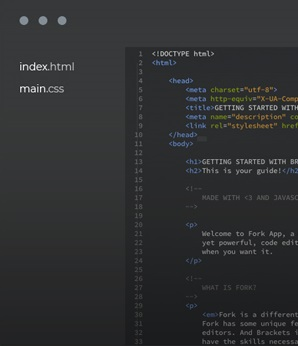
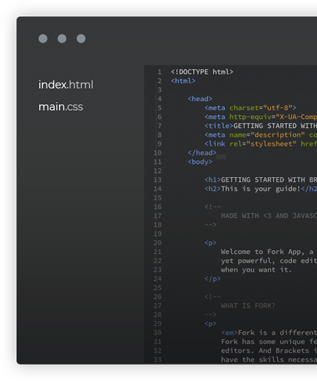
modify: fixed some mistakes in CSS

diff --git a/dist/styles.min.css b/dist/styles.min.css
@@ -1,1 +1,1 @@
-li{list-style-type:none}a{color:#fff;text-decoration:none}h1,h2,p,ul{padding:0;margin:0}body{margin:0}.fork-wrapper{background-image:url(/dist/img/forkio-background-320.jpg);display:flex;flex-direction:column;color:#fff;text-align:center}.fork-title{font-family:Montserrat,Arial,sans-serif;font-size:28px;line-height:42px;font-weight:700;margin-top:2px;margin-bottom:32px}@media (min-width:481px){.fork-title{font-size:42px;line-height:44px;font-weight:700;margin-bottom:39px}}@media (min-width:993px){.fork-title{font-size:48px;line-height:50px;font-weight:700;margin-top:83px;margin-bottom:112px}}.fork-list{display:flex;flex-direction:column;row-gap:18px}@media (min-width:481px){.fork-list{flex-direction:row;margin-left:121px;margin-right:108px;flex-wrap:wrap;-moz-column-gap:25px;column-gap:25px;row-gap:0}}@media (min-width:993px){.fork-list{-moz-column-gap:15px;column-gap:15px;margin:0 auto}}.fork__list-item{background:rgba(255,255,255,.11);height:457px;width:257px;margin:0 auto}.fork__list-item:nth-child(4){margin-bottom:12px}@media (min-width:481px){.fork__list-item{margin-bottom:71px;margin-right:0;margin-left:0}}.fork__list__item-active{background:rgba(70,48,72,.84);height:560px;width:299px;margin:0 auto}@media (min-width:481px){.fork__list__item-active{margin:-41px 0 94px -42px}}@media (min-width:993px){.fork__list__item-active{margin:-51px 0 77px 0}}.fork__item-productName{font-family:Montserrat,Arial,sans-serif;font-size:24px;line-height:24px;font-weight:400;text-transform:uppercase;padding-top:36px;padding-bottom:36px;margin:0;background:rgba(255,255,255,.06)}.fork__item__productName-active{font-family:Montserrat,Arial,sans-serif;font-size:24px;line-height:24px;font-weight:400;text-transform:uppercase;padding-top:43px;padding-bottom:43px;margin:0;background:rgba(0,0,0,.11)}.fork__item-price{font-family:Montserrat,Arial,sans-serif;margin-top:30px;margin-bottom:20px;font-size:60px;font-weight:700;line-height:62px}.fork__item-price::before{font-size:60px;font-weight:400;line-height:62px;content:"$"}.fork__item__price-active{font-family:Montserrat,Arial,sans-serif;margin-top:14px;margin-bottom:16px;font-size:82px;font-weight:700;line-height:84px}.fork__item__price-active::before{font-size:82px;font-weight:400;line-height:84px;content:"$"}.fork__item-period{font-family:Montserrat,Arial,sans-serif;font-size:14px;font-weight:400;line-height:16px}.fork__item__period-active{font-family:Montserrat,Arial,sans-serif;font-size:14px;font-weight:400;line-height:16px}.fork__item-line{color:#8d81ac;border-top:4px solid;width:60px;margin-top:38px;margin-bottom:30px}.fork__item__line-active{color:#8d81ac;border-top:4px solid;width:60px;margin-top:46px;margin-bottom:40px}.fork__item-license{font-family:Montserrat,Arial,sans-serif;font-weight:400;font-size:16px;line-height:28px;height:auto;padding:0 23px}.fork__item__license-active{font-family:Montserrat,Arial,sans-serif;font-weight:400;font-size:16px;line-height:32px;height:48px;padding:0 50px}.fork__item-btn{font-family:Montserrat,Arial,sans-serif;font-weight:400;font-size:15px;line-height:15px;margin-top:37px;width:163px;height:45px;border:none;border-radius:25px;color:#fff;background-color:rgba(255,255,255,.15);cursor:pointer}.fork__item__btn-active{font-family:Montserrat,Arial,sans-serif;font-weight:400;font-size:15px;line-height:15px;margin-top:83px;margin-bottom:47px;width:190px;height:52px;border:none;border-radius:25px;color:#fff;background-color:rgba(255,255,255,.15);cursor:pointer}.header{position:relative;background-color:#27262a;margin-bottom:79px}@media (min-width:481px) and (max-width:992px){.header{margin-bottom:93px}}@media (min-width:993px){.header{margin-bottom:66px;background-color:#000}}.header__navbar{display:flex;justify-content:space-between;align-items:center}@media (min-width:320px) and (max-width:480px){.header__navbar{padding:34px 15px 24px 16px}}@media (min-width:481px) and (max-width:992px){.header__navbar{padding:22px 20px 54px}}@media (min-width:1200px){.header__navbar{padding:0;margin-left:80px}}@media (min-width:481px) and (max-width:992px){.header__navbar-logo{display:flex;align-items:center}}@media (min-width:993px){.header__navbar-logo{display:flex;align-items:center;margin-top:29px}.header__navbar-logo:hover>span{color:#fff}.header__navbar-logo:hover>svg{fill-opacity:0;background-image:url(../../dist/img/logo-hover.svg)}}.header__navbar-forkio{display:none}@media (min-width:481px){.header__navbar-forkio{display:block;color:#8d81ac;font-family:Lato,Arial,sans-serif;font-weight:700;font-size:24px;line-height:16px;margin-left:17px;text-transform:uppercase}}.header__buy-now{font-family:Montserrat,Arial,sans-serif;font-weight:700;width:119px;height:37px;font-size:15px;line-height:15px;background:#8d81ac;border-radius:40px;display:flex;align-items:center;justify-content:center}@media (min-width:481px) and (max-width:992px){.header__buy-now{width:145px;height:38px;font-size:16px;line-height:16px}}@media (min-width:993px){.header__buy-now{display:none;width:145px;height:38px;font-size:16px;line-height:17px;margin-top:31px}.header__buy-now:hover{background-color:#fff;color:#8d81ac;border:#8d81ac 1px solid}}.header__buy-now--link{display:none}@media (min-width:993px){.header__buy-now--link{display:flex}}.header__button{position:relative;width:26px;height:21px;border:none;top:4px;background-color:transparent;cursor:pointer}@media (min-width:481px){.header__button{display:none}}.header__button-line{position:absolute;width:26px;height:3px;left:0;top:6px;background-color:#fff;border-radius:5px}.header__button-line::before{position:absolute;top:6px;left:0;content:"";height:3px;width:26px;background-color:#fff;border-radius:5px}.header__button-line::after{position:absolute;bottom:6px;left:11px;content:"";height:3px;width:15px;background-color:#fff;border-radius:5px}.header__button-line.active{background:0 0}.header__button-line.active::before{transform:rotate(-45deg);top:3px;transition:all .4s ease 0s}.header__button-line.active::after{transform:rotate(45deg);bottom:-3px;width:26px;left:1px;transition:all .4s ease 0s}.header .navigator{position:relative;left:calc((100% - 292px)/ 2);display:none}@media (min-width:481px) and (max-width:992px){.header .navigator{display:flex;top:-71px;left:0;justify-content:center}}@media (min-width:993px){.header .navigator{display:flex;top:-97px}}.header .navigator.active{display:block;z-index:1}@media (min-width:481px) and (max-width:992px){.header .navigator.active{display:none}}.header .navigator__menu{position:absolute;display:flex;flex-direction:column;width:292px;background-color:#333}@media (min-width:481px) and (max-width:767px){.header .navigator__menu{display:flex;flex-direction:row;justify-content:space-around;width:100%;z-index:1;background-color:transparent}}@media (min-width:768px) and (max-width:992px){.header .navigator__menu{display:flex;flex-direction:row;justify-content:space-around;width:75%;z-index:1;background-color:transparent}}@media (min-width:993px){.header .navigator__menu{display:flex;flex-direction:row;width:62%;z-index:1;background-color:transparent;justify-content:space-between;align-items:baseline;margin-top:25px}}.header .navigator__menu-item{position:relative;font-family:Montserrat,Arial,sans-serif;font-weight:400;font-size:26px;line-height:26px;min-height:88px;display:flex;align-items:center;padding-left:35px;border-bottom:2px solid #484646}@media (min-width:481px) and (max-width:767px){.header .navigator__menu-item{border:none;padding-left:10px;padding-right:10px}}@media (min-width:768px) and (max-width:992px){.header .navigator__menu-item{border:none;padding-left:0;padding-right:0}}@media (min-width:993px) and (max-width:1100px){.header .navigator__menu-item{border:none;padding-left:10px;padding-right:10px;height:0}}@media (min-width:1101px) and (max-width:1199px){.header .navigator__menu-item{border:none;padding-left:0;padding-right:0}}@media (min-width:1200px){.header .navigator__menu-item{border:none;padding-left:0;padding-right:0}}.header .navigator__menu-item:last-child::after{position:absolute;left:0;bottom:-16px;content:"";height:14px;width:292px;background-color:#333}@media (min-width:481px){.header .navigator__menu-item:last-child::after{display:none}}@media (min-width:1200px){.header .navigator__menu-link{margin-right:80px}}@media (min-width:481px) and (max-width:992px){.header .navigator__link{font-family:Montserrat,Arial,sans-serif;font-weight:700;font-size:16px;line-height:18px;color:#8d81ac}}@media (min-width:993px){.header .navigator__link{font-family:Montserrat,Arial,sans-serif;font-weight:700;color:#8d81ac;font-size:16px;line-height:15px}.header .navigator__link:hover{color:#fff}}.header .navigator__link:active{color:#8d81ac}.header .navigator__link:focus{color:#8d81ac}.header .navigator__link:active::after{position:absolute;left:0;top:19px;content:"";width:8px;height:53px;background-color:#8d81ac}@media (min-width:481px){.header .navigator__link:active::after{display:none}}.header .navigator__link:focus::after{position:absolute;left:0;top:19px;content:"";width:8px;height:53px;background-color:#8d81ac}@media (min-width:993px){.header .navigator__link:focus::after{display:none}}.header__unlimited{font-family:Montserrat,Arial,sans-serif;font-weight:400;position:absolute;bottom:-56px;font-size:14px;line-height:14px;color:#848e97;left:calc((100% - 205px)/ 2)}@media (min-width:481px) and (max-width:992px){.header__unlimited{font-size:14px;line-height:16px;left:calc((100% - 205px)/ 2);bottom:-67px}}@media (min-width:993px){.header__unlimited{font-size:14px;line-height:15px;left:calc((100% - 205px)/ 2);bottom:-67px}}.fork-app{position:relative;top:0;left:0;min-height:615px;text-align:center;background-image:url(../../dist/img/-header-background.jpg);background-position:center center;background-size:cover}@media (min-width:481px) and (max-width:992px){.fork-app{min-height:618px}}@media (min-width:993px){.fork-app{min-height:708px}}.fork-app__h1{font-family:Montserrat,Arial,sans-serif;font-weight:700;font-size:48px;line-height:48px;color:#fff;padding:50px 0 19px}@media (min-width:481px) and (max-width:992px){.fork-app__h1{font-size:72px;line-height:72px;padding:68.91px 0 19px}}@media (min-width:993px){.fork-app__h1{font-size:82px;line-height:82px;padding:120px 0 19px}}.fork-app__text{font-family:Montserrat,Arial,sans-serif;font-weight:400;font-size:18px;line-height:24px;color:#8d81ac;text-align:center;padding:0 11px 14px}@media (min-width:481px) and (max-width:992px){.fork-app__text{font-family:Lato,Arial,sans-serif;font-weight:400;font-size:24px;line-height:24px;padding-bottom:19px}}@media (min-width:993px){.fork-app__text{font-size:30px;line-height:30px;padding-bottom:19px}}.fork-app__text2{font-family:Montserrat,Arial,sans-serif;font-weight:400;font-size:14px;line-height:14px;text-transform:uppercase;color:#848e97}@media (min-width:993px){.fork-app__text2{font-size:16px;line-height:16px}}.fork-app__download{position:absolute;bottom:-19px;left:calc((100% - 290px)/ 2);font-family:Montserrat,Arial,sans-serif;font-weight:700;font-size:18px;line-height:20px;color:#fff;background-color:#8d81ac;padding:13px 29px;border-radius:40px}@media (min-width:481px) and (max-width:992px){.fork-app__download{bottom:-32px;left:calc((100% - 383px)/ 2);font-size:21px;line-height:23px;padding:23px 61px}}@media (min-width:993px){.fork-app__download{font-size:21px;line-height:22px;padding:23px 61px;bottom:-32px;left:calc((100% - 383px)/ 2)}.fork-app__download:hover{background-color:#fff;color:#8d81ac;border:#8d81ac 2px solid}}.hereis-wrapper{display:flex;flex-direction:column;align-items:center;text-align:center;width:100%;margin:88px 22px 6px 0}@media (min-width:481px){.hereis-wrapper{margin-top:98px}}@media (min-width:993px){.hereis-wrapper{display:grid;background-color:#f4f4f4;height:711px;margin-top:70px;grid-template:repeat(4,1fr),repeat(2,1fr);grid-template-areas:"list title" "list img" "list img" "list img"}}.hereis-title{font-family:Montserrat,Arial,sans-serif;font-style:normal;font-weight:700;font-size:32px;line-height:38px;text-align:center;color:#8d81ac;margin:32px 47px 0 43px}.hereis-title::before{position:relative;content:"<";padding-bottom:40px}@media (min-width:481px){.hereis-title{margin-top:62px;font-size:42px;line-height:44px}}@media (min-width:993px){.hereis-title{font-size:48px;line-height:50px;margin:0;padding:0;margin-top:91.11px;margin-left:23px;grid-area:title;text-align:left}}.hereis__list{margin:0;grid-area:list}@media (min-width:993px){.hereis__list{height:100%}}.hereis__list-item{margin:36px 26px 2px 25px}.hereis__list-item:nth-child(3){margin-top:38px}.hereis__list-item:nth-child(4){margin:40px 22px 49px 30px}@media (min-width:481px){.hereis__list-item{display:flex;height:90px;align-items:flex-start;margin:52px 5px 0 30px}.hereis__list-item:nth-child(2){padding-left:1px}.hereis__list-item:nth-child(3){padding-left:16px}.hereis__list-item:nth-child(4){padding-left:11px}}@media (min-width:481px) and (min-width:481px){.hereis__list-item{margin-top:100px}.hereis__list-item:nth-child(2){margin-top:35.57px}.hereis__list-item:nth-child(3){margin-top:35.57px}.hereis__list-item:nth-child(4){margin-top:36.57px}}@media (min-width:993px){.hereis__list-item{position:static;height:110px;padding:0}}.hereis__item-icon{display:block;margin:0 auto}@media (min-width:481px){.hereis__item-icon{display:flex;position:absolute}}@media (min-width:481px){.hereis__text-wrapper{display:flex;flex-direction:column;padding-left:134px;align-self:center;margin-right:22px}}@media (min-width:481px){#hereis-2{margin-left:1px}}@media (min-width:481px){#hereis-3{margin-left:-16px}}@media (min-width:481px){#hereis-4{margin-left:-11px}}.hereis__item-title{font-family:Montserrat,Arial,sans-serif;font-weight:400;font-size:16px;line-height:16px;justify-content:center;color:#000;margin:27px 26px 14px 24px}@media (min-width:481px){.hereis__item-title{text-align:left;margin:0;line-height:21px}}@media (min-width:993px){.hereis__item-title{margin-top:-32px}}.hereis__item-text{font-family:Lato,Arial,sans-serif;font-style:normal;font-weight:400;font-size:14px;line-height:21px;text-align:center;color:#848e97}@media (min-width:481px){.hereis__item-text{font-family:Montserrat,Arial,sans-serif;height:56px;margin-top:15.83px;text-align:left}}.hereis__img-320{display:flex;align-self:flex-end;padding:17.5px 0 17.5px 19px;margin-top:9px}@media (min-width:481px){.hereis__img-320{display:none}}.hereis__img-768{display:none}@media (min-width:481px){.hereis__img-768{display:flex;align-self:flex-end;padding:24px 0 24px 24px}}@media (min-width:993px){.hereis__img-768{margin:0;grid-area:img;margin-top:-30px}}.people{width:100%;background-image:url(../../dist/img/people-are-background.jpg);background-size:cover;background-repeat:no-repeat;background-position:center center;display:flex;flex-direction:column;align-items:center;justify-content:center;text-align:center}@media (min-width:481px) and (max-width:992px){.people{background-image:url(../../dist/img/people-are-full-background.jpg);background-position:center center;background-size:cover}}@media (min-width:993px){.people{background-image:url(../../dist/img/people-are-full-background.jpg);background-position:center center;background-size:cover}}.people--h2{padding-top:57px;padding-bottom:53px;font-family:Montserrat,Arial,sans-serif;font-weight:700;font-size:36px;line-height:48px;color:#fff}@media (min-width:481px) and (max-width:992px){.people--h2{font-size:42px;line-height:44px;margin-top:87px;padding-bottom:88px}}@media (min-width:993px){.people--h2{font-size:48px;line-height:50px;margin-top:108px;padding-bottom:82px}}.people__menu{display:flex;flex-direction:column;align-items:center}@media (min-width:481px) and (max-width:992px){.people__menu{flex-direction:row;flex-wrap:wrap;align-items:baseline;justify-content:center}}@media (min-width:993px){.people__menu{flex-direction:row;flex-wrap:wrap;align-items:baseline;justify-content:center}}.people__menu-item{text-align:center;padding:0 15px 45px 14px}.people__menu-item:last-child{padding-bottom:37px}@media (min-width:481px) and (max-width:992px){.people__menu-item:last-child{padding-bottom:68px}}@media (min-width:993px){.people__menu-item:last-child{padding-bottom:118px}}@media (min-width:481px) and (max-width:992px){.people__menu-item{width:40%;padding:0 25px 56px 20x;display:flex;justify-content:center;flex-wrap:wrap}}@media (min-width:993px){.people__menu-item{width:30%;padding-bottom:116px;padding:0 3px 56px}}.people__menu-text{font-family:Lato,Arial,sans-serif;font-weight:700;font-size:16px;line-height:24px;color:#fff;padding-top:29px;text-align:center}.people--text{position:relative;font-family:Lato,Arial,sans-serif;font-weight:400;font-size:14px;line-height:21px;color:#a291a5;padding:0 35px 36px 34px}@media (min-width:481px) and (max-width:992px){.people--text{margin-bottom:88px}}@media (min-width:993px){.people--text{width:887px;margin-bottom:132px}}.people--text::after{content:"";position:absolute;bottom:12px;left:calc((100% - 263px)/ 2);width:245px;height:2px;background-color:#645766}@media (min-width:481px) and (max-width:767px){.people--text::after{width:364px;left:calc((100% - 364px)/ 2)}}@media (min-width:768px) and (max-width:992px){.people--text::after{width:555px;left:calc((100% - 555px)/ 2)}}@media (min-width:993px){.people--text::after{width:780px;left:85px}}.revolutionary-wrapper{display:flex;flex-direction:column}.revolutionary-title{font-family:Montserrat,Arial,sans-serif;font-weight:700;font-size:26px;line-height:28px;text-align:center;text-transform:uppercase;color:#635c73;margin-top:39.5px}@media (min-width:481px){.revolutionary-title{margin-top:93.5px;margin-bottom:0;font-size:42px;line-height:42px}}@media (min-width:993px){.revolutionary-title{margin-top:66px;font-size:54px;line-height:54px}}.revolutionary-text{font-family:Lato;font-style:normal;font-weight:400;font-size:14px;line-height:20px;text-align:center;color:#323232;margin:27px 26px 36px 18px}@media (min-width:481px){.revolutionary-text{margin:33px 40px 24px 39px;font-size:21px;line-height:32px}}@media (min-width:993px){.revolutionary-text{margin:35px 189px 13px 150px}}.revolutionary__btn-list{display:flex;flex-wrap:wrap;line-height:24px;max-height:100%;justify-content:center;text-align:center}.revolutionary__list-item{background-color:#f1f1f1;height:26px;border-radius:4px;border:#e3e3e3 1px solid;margin-right:8px;font-size:12px;color:#333;line-height:18px;list-style-type:none;margin-bottom:20px}.revolutionary__list-item:nth-child(3){margin-bottom:0}@media (min-width:481px){.revolutionary__list-item{margin-bottom:0}}.revolutionary__btn-icon{padding-left:8px}.revolutionary__btn-link{display:flex;align-items:center;font-weight:700}.revolutionary__btn-text{font-family:Montserrat,Arial,sans-serif;position:relative;color:#333;display:inline-block;padding:0 6px;font-size:12px;font-weight:500;line-height:18px;font-weight:700}.revolutionary__link-counter{font-family:Montserrat,Arial,sans-serif;display:inline-block;min-width:20px;padding:0 6px;font-size:12px;font-weight:500;line-height:26px;text-align:center;color:#333;background-color:#fff;font-weight:700;border-left:#e3e3e3 1px solid}
+li{list-style-type:none}a{color:#fff;text-decoration:none}h1,h2,p,ul{padding:0;margin:0}body{margin:0}.fork-wrapper{background-image:url(/dist/img/forkio-background-320.jpg);display:flex;flex-direction:column;color:#fff;text-align:center}.fork-title{font-family:Montserrat,Arial,sans-serif;font-size:28px;line-height:42px;font-weight:700;margin-top:2px;margin-bottom:32px}@media (min-width:481px){.fork-title{font-size:42px;line-height:44px;font-weight:700;margin-bottom:39px}}@media (min-width:993px){.fork-title{font-size:48px;line-height:50px;font-weight:700;margin-top:0;margin-bottom:112px}}.fork-list{display:flex;flex-direction:column;row-gap:18px}@media (min-width:481px){.fork-list{flex-direction:row;margin-left:121px;margin-right:108px;flex-wrap:wrap;-moz-column-gap:25px;column-gap:25px;row-gap:0}}@media (min-width:993px){.fork-list{-moz-column-gap:15px;column-gap:15px;margin:0 auto}}.fork__list-item{background:rgba(255,255,255,.11);height:457px;width:257px;margin:0 auto}.fork__list-item:nth-child(4){margin-bottom:12px}@media (min-width:481px){.fork__list-item{margin-bottom:71px;margin-right:0;margin-left:0}}.fork__list__item-active{background:rgba(70,48,72,.84);height:560px;width:299px;margin:0 auto}@media (min-width:481px){.fork__list__item-active{margin:-41px 0 94px -42px}}@media (min-width:993px){.fork__list__item-active{margin:-51px 0 77px 0}}.fork__item-productName{font-family:Montserrat,Arial,sans-serif;font-size:24px;line-height:24px;font-weight:400;text-transform:uppercase;padding-top:36px;padding-bottom:36px;margin:0;background:rgba(255,255,255,.06)}.fork__item__productName-active{font-family:Montserrat,Arial,sans-serif;font-size:24px;line-height:24px;font-weight:400;text-transform:uppercase;padding-top:43px;padding-bottom:43px;margin:0;background:rgba(0,0,0,.11)}.fork__item-price{font-family:Montserrat,Arial,sans-serif;margin-top:30px;margin-bottom:20px;font-size:60px;font-weight:700;line-height:62px}.fork__item-price::before{font-size:60px;font-weight:400;line-height:62px;content:"$"}.fork__item__price-active{font-family:Montserrat,Arial,sans-serif;margin-top:14px;margin-bottom:16px;font-size:82px;font-weight:700;line-height:84px}.fork__item__price-active::before{font-size:82px;font-weight:400;line-height:84px;content:"$"}.fork__item-period{font-family:Montserrat,Arial,sans-serif;font-size:14px;font-weight:400;line-height:16px}.fork__item__period-active{font-family:Montserrat,Arial,sans-serif;font-size:14px;font-weight:400;line-height:16px}.fork__item-line{color:#8d81ac;border-top:4px solid;width:60px;margin-top:38px;margin-bottom:30px}.fork__item__line-active{color:#8d81ac;border-top:4px solid;width:60px;margin-top:46px;margin-bottom:40px}.fork__item-license{font-family:Montserrat,Arial,sans-serif;font-weight:400;font-size:16px;line-height:28px;height:auto;padding:0 23px}.fork__item__license-active{font-family:Montserrat,Arial,sans-serif;font-weight:400;font-size:16px;line-height:32px;height:48px;padding:0 50px}.fork__item-btn{font-family:Montserrat,Arial,sans-serif;font-weight:400;font-size:15px;line-height:15px;margin-top:37px;width:163px;height:45px;border:none;border-radius:25px;color:#fff;background-color:rgba(255,255,255,.15);cursor:pointer}.fork__item__btn-active{font-family:Montserrat,Arial,sans-serif;font-weight:400;font-size:15px;line-height:15px;margin-top:83px;margin-bottom:47px;width:190px;height:52px;border:none;border-radius:25px;color:#fff;background-color:rgba(255,255,255,.15);cursor:pointer}.header{position:relative;background-color:#27262a;margin-bottom:79.5px}@media (min-width:481px) and (max-width:992px){.header{margin-bottom:93px}}@media (min-width:993px){.header{margin-bottom:66px;background-color:#000}}.header__navbar{display:flex;justify-content:space-between;align-items:center}@media (min-width:320px) and (max-width:480px){.header__navbar{padding:34px 15px 24px 16px}}@media (min-width:481px) and (max-width:992px){.header__navbar{padding:22px 20px 54px}}@media (min-width:1200px){.header__navbar{padding:0;margin-left:80px}}@media (min-width:481px) and (max-width:992px){.header__navbar-logo{display:flex;align-items:center}}@media (min-width:993px){.header__navbar-logo{display:flex;align-items:center;margin-top:29px}.header__navbar-logo:hover>span{color:#fff}.header__navbar-logo:hover>svg{fill-opacity:0;background-image:url(../../dist/img/logo-hover.svg)}}.header__navbar-forkio{display:none}@media (min-width:481px){.header__navbar-forkio{display:block;color:#8d81ac;font-family:Lato,Arial,sans-serif;font-weight:700;font-size:24px;line-height:16px;margin-left:17px;text-transform:uppercase}}.header__buy-now{font-family:Montserrat,Arial,sans-serif;font-weight:700;width:119px;height:37px;font-size:15px;line-height:15px;background:#8d81ac;border-radius:40px;display:flex;align-items:center;justify-content:center}@media (min-width:481px) and (max-width:992px){.header__buy-now{width:145px;height:38px;font-size:16px;line-height:16px}}@media (min-width:993px){.header__buy-now{display:none;width:145px;height:38px;font-size:16px;line-height:17px;margin-top:31px}.header__buy-now:hover{background-color:#fff;color:#8d81ac;border:#8d81ac 1px solid}}.header__buy-now--link{display:none}@media (min-width:993px){.header__buy-now--link{display:flex}}.header__button{position:relative;width:26px;height:21px;border:none;top:4px;background-color:transparent;cursor:pointer}@media (min-width:481px){.header__button{display:none}}.header__button-line{position:absolute;width:26px;height:3px;left:0;top:6px;background-color:#fff;border-radius:5px}.header__button-line::before{position:absolute;top:6px;left:0;content:"";height:3px;width:26px;background-color:#fff;border-radius:5px}.header__button-line::after{position:absolute;bottom:6px;left:11px;content:"";height:3px;width:15px;background-color:#fff;border-radius:5px}.header__button-line.active{background:0 0}.header__button-line.active::before{transform:rotate(-45deg);top:3px;transition:all .4s ease 0s}.header__button-line.active::after{transform:rotate(45deg);bottom:-3px;width:26px;left:1px;transition:all .4s ease 0s}.header .navigator{position:relative;left:calc((100% - 292px)/ 2);display:none}@media (min-width:481px) and (max-width:992px){.header .navigator{display:flex;top:-71px;left:0;justify-content:center}}@media (min-width:993px){.header .navigator{display:flex;top:-97px}}.header .navigator.active{display:block;z-index:1}@media (min-width:481px) and (max-width:992px){.header .navigator.active{display:none}}.header .navigator__menu{position:absolute;display:flex;flex-direction:column;width:292px;background-color:#333}@media (min-width:481px) and (max-width:767px){.header .navigator__menu{display:flex;flex-direction:row;justify-content:space-around;width:100%;z-index:1;background-color:transparent}}@media (min-width:768px) and (max-width:992px){.header .navigator__menu{display:flex;flex-direction:row;justify-content:space-around;width:75%;z-index:1;background-color:transparent}}@media (min-width:993px){.header .navigator__menu{display:flex;flex-direction:row;width:62%;z-index:1;background-color:transparent;justify-content:space-between;align-items:baseline;margin-top:25px}}.header .navigator__menu-item{position:relative;font-family:Montserrat,Arial,sans-serif;font-weight:400;font-size:26px;line-height:26px;min-height:88px;display:flex;align-items:center;padding-left:35px;border-bottom:2px solid #484646}@media (min-width:481px) and (max-width:767px){.header .navigator__menu-item{border:none;padding-left:10px;padding-right:10px}}@media (min-width:768px) and (max-width:992px){.header .navigator__menu-item{border:none;padding-left:0;padding-right:0}}@media (min-width:993px) and (max-width:1100px){.header .navigator__menu-item{border:none;padding-left:10px;padding-right:10px;height:0}}@media (min-width:1101px) and (max-width:1199px){.header .navigator__menu-item{border:none;padding-left:0;padding-right:0}}@media (min-width:1200px){.header .navigator__menu-item{border:none;padding-left:0;padding-right:0}}.header .navigator__menu-item:last-child::after{position:absolute;left:0;bottom:-16px;content:"";height:14px;width:292px;background-color:#333}@media (min-width:481px){.header .navigator__menu-item:last-child::after{display:none}}@media (min-width:1200px){.header .navigator__menu-link{margin-right:80px}}@media (min-width:481px) and (max-width:992px){.header .navigator__link{font-family:Montserrat,Arial,sans-serif;font-weight:700;font-size:16px;line-height:18px;color:#8d81ac}}@media (min-width:993px){.header .navigator__link{font-family:Montserrat,Arial,sans-serif;font-weight:700;color:#8d81ac;font-size:16px;line-height:15px}.header .navigator__link:hover{color:#fff}}.header .navigator__link:active{color:#8d81ac}.header .navigator__link:focus{color:#8d81ac}.header .navigator__link:active::after{position:absolute;left:0;top:19px;content:"";width:8px;height:53px;background-color:#8d81ac}@media (min-width:481px){.header .navigator__link:active::after{display:none}}.header .navigator__link:focus::after{position:absolute;left:0;top:19px;content:"";width:8px;height:53px;background-color:#8d81ac}@media (min-width:993px){.header .navigator__link:focus::after{display:none}}.header__unlimited{font-family:Montserrat,Arial,sans-serif;font-weight:400;position:absolute;bottom:-56px;font-size:14px;line-height:14px;color:#848e97;left:calc((100% - 205px)/ 2)}@media (min-width:481px) and (max-width:992px){.header__unlimited{font-size:14px;line-height:16px;left:calc((100% - 205px)/ 2);bottom:-67px}}@media (min-width:993px){.header__unlimited{font-size:14px;line-height:15px;left:calc((100% - 205px)/ 2);bottom:-67px}}.fork-app{position:relative;top:0;left:0;min-height:615px;text-align:center;background-image:url(../../dist/img/-header-background.jpg);background-position:center center;background-size:cover}@media (min-width:481px) and (max-width:992px){.fork-app{min-height:618px}}@media (min-width:993px){.fork-app{min-height:708px}}.fork-app__h1{font-family:Montserrat,Arial,sans-serif;font-weight:700;font-size:48px;line-height:48px;color:#fff;padding:50px 0 19px}@media (min-width:481px) and (max-width:992px){.fork-app__h1{font-size:72px;line-height:72px;padding:68.91px 0 19px}}@media (min-width:993px){.fork-app__h1{font-size:82px;line-height:82px;padding:120px 0 19px}}.fork-app__text{font-family:Montserrat,Arial,sans-serif;font-weight:400;font-size:18px;line-height:24px;color:#8d81ac;text-align:center;padding:0 11px 14px;text-transform:capitalize}@media (min-width:481px) and (max-width:992px){.fork-app__text{font-family:Lato,Arial,sans-serif;font-weight:400;font-size:24px;line-height:24px;padding-bottom:19px;text-transform:lowercase}.fork-app__text::first-letter{text-transform:uppercase}}@media (min-width:993px){.fork-app__text{font-size:30px;line-height:30px;padding-bottom:19px;text-transform:lowercase}.fork-app__text::first-letter{text-transform:uppercase}}.fork-app__text2{font-family:Montserrat,Arial,sans-serif;font-weight:400;font-size:14px;line-height:14px;text-transform:uppercase;color:#848e97}@media (min-width:993px){.fork-app__text2{font-size:16px;line-height:16px}}.fork-app__download{position:absolute;bottom:-19px;left:calc((100% - 290px)/ 2);font-family:Montserrat,Arial,sans-serif;font-weight:700;font-size:18px;line-height:20px;color:#fff;background-color:#8d81ac;padding:13px 29px;border-radius:40px}@media (min-width:481px) and (max-width:992px){.fork-app__download{bottom:-32px;left:calc((100% - 383px)/ 2);font-size:21px;line-height:23px;padding:23px 61px}}@media (min-width:993px){.fork-app__download{font-size:21px;line-height:22px;padding:23px 61px;bottom:-32px;left:calc((100% - 383px)/ 2)}.fork-app__download:hover{background-color:#fff;color:#8d81ac;border:#8d81ac 2px solid}}.hereis-wrapper{display:flex;flex-direction:column;align-items:center;text-align:center;width:100%;margin:88px 22px 6px 0}@media (min-width:481px){.hereis-wrapper{margin-top:98px}}@media (min-width:993px){.hereis-wrapper{display:grid;background-color:#f4f4f4;height:711px;margin-top:70px;grid-template:repeat(4,1fr),repeat(2,1fr);grid-template-areas:"list title" "list img" "list img" "list img"}}.hereis-title{font-family:Montserrat,Arial,sans-serif;font-style:normal;font-weight:700;font-size:32px;line-height:38px;text-align:center;color:#8d81ac;margin:32px 47px 0 43px}.hereis-title::before{position:relative;content:"<";padding-bottom:40px}@media (min-width:481px){.hereis-title{margin-top:62px;font-size:42px;line-height:44px}}@media (min-width:993px){.hereis-title{font-size:48px;line-height:50px;margin:0;padding:0;margin-top:91.11px;margin-left:23px;grid-area:title;text-align:left}}.hereis__list{margin:0;grid-area:list}@media (min-width:993px){.hereis__list{height:100%}}.hereis__list-item{margin:36px 26px 2px 25px}.hereis__list-item:nth-child(3){margin-top:38px}.hereis__list-item:nth-child(4){margin:40px 22px 73px 30px}@media (min-width:481px){.hereis__list-item{display:flex;height:90px;align-items:flex-start;margin:52px 5px 0 30px}.hereis__list-item:nth-child(2){padding-left:1px}.hereis__list-item:nth-child(3){padding-left:16px}.hereis__list-item:nth-child(4){padding-left:11px}}@media (min-width:481px) and (min-width:993px){.hereis__list-item{position:static;height:110px;padding:0;margin-top:100px}.hereis__list-item:nth-child(2){margin-top:35.57px}.hereis__list-item:nth-child(3){margin-top:35.57px}.hereis__list-item:nth-child(4){margin-top:36.57px}}.hereis__item-icon{display:block;margin:0 auto}@media (min-width:481px){.hereis__item-icon{display:flex;position:absolute}}.hereis__text-wrapper{margin-top:27px}@media (min-width:481px){.hereis__text-wrapper{display:flex;flex-direction:column;padding-left:134px;align-self:center;margin-right:22px;margin-bottom:40px}}#hereis-2{margin-top:21px}@media (min-width:481px){#hereis-2{margin-left:1px}}#hereis-3{margin-top:20px}@media (min-width:481px){#hereis-3{margin-left:-16px}}#hereis-4{margin-top:23px}@media (min-width:481px){#hereis-4{margin-left:-11px}}.hereis__item-title{font-family:Montserrat,Arial,sans-serif;font-weight:400;font-size:16px;line-height:16px;justify-content:center;color:#000;margin-bottom:14px}@media (min-width:481px){.hereis__item-title{text-align:left;margin:0;line-height:21px}}@media (min-width:993px){.hereis__item-title{margin-top:-32px}}.hereis__item-text{font-family:Lato,Arial,sans-serif;font-style:normal;font-weight:400;font-size:14px;line-height:21px;text-align:center;color:#848e97}@media (min-width:481px){.hereis__item-text{font-family:Montserrat,Arial,sans-serif;height:56px;margin-top:15.83px;text-align:left}}.hereis__img-320{display:flex;align-self:flex-end;margin-top:7px}@media (min-width:481px){.hereis__img-320{display:none}}.hereis__img-768{display:none}@media (min-width:481px){.hereis__img-768{display:flex;align-self:flex-end}}@media (min-width:993px){.hereis__img-768{align-self:center;margin:0;grid-area:img;margin-top:-30px}}.people{width:100%;background-image:url(../../dist/img/people-are-background.jpg);background-size:cover;background-repeat:no-repeat;background-position:center center;display:flex;flex-direction:column;align-items:center;justify-content:center;text-align:center}@media (min-width:481px) and (max-width:992px){.people{background-image:url(../../dist/img/people-are-full-background.jpg);background-position:center center;background-size:cover}}@media (min-width:993px){.people{background-image:url(../../dist/img/people-are-full-background.jpg);background-position:center center;background-size:cover}}.people--h2{padding-top:57px;padding-bottom:53px;font-family:Montserrat,Arial,sans-serif;font-weight:700;font-size:36px;line-height:48px;padding-top:0;color:#fff}@media (min-width:481px) and (max-width:992px){.people--h2{font-size:42px;line-height:44px;margin-top:87px;padding-bottom:88px}}@media (min-width:993px){.people--h2{font-size:48px;line-height:50px;margin-top:108px;padding-bottom:82px}}.people__menu{display:flex;flex-direction:column;align-items:center}@media (min-width:481px) and (max-width:992px){.people__menu{flex-direction:row;flex-wrap:wrap;align-items:baseline;justify-content:center}}@media (min-width:993px){.people__menu{flex-direction:row;flex-wrap:wrap;align-items:baseline;justify-content:center}}.people__menu-item{text-align:center;padding:0 15px 45px 14px}.people__menu-item:last-child{padding-bottom:37px}@media (min-width:481px) and (max-width:992px){.people__menu-item:last-child{padding-bottom:68px}}@media (min-width:993px){.people__menu-item:last-child{padding-bottom:118px}}@media (min-width:481px) and (max-width:992px){.people__menu-item{width:40%;padding:0 25px 56px 20x;display:flex;justify-content:center;flex-wrap:wrap}}@media (min-width:993px){.people__menu-item{width:30%;padding-bottom:116px;padding:0 3px 56px}}.people__menu-text{font-family:Lato,Arial,sans-serif;font-weight:700;font-size:16px;line-height:24px;color:#fff;padding-top:29px;text-align:center}.people--text{position:relative;font-family:Lato,Arial,sans-serif;font-weight:400;font-size:14px;line-height:21px;color:#a291a5;padding:0 35px 36px 34px}@media (min-width:481px) and (max-width:992px){.people--text{margin-bottom:88px}}@media (min-width:993px){.people--text{width:887px;margin:0 auto;margin-bottom:132px}}.people--text::after{content:"";position:absolute;bottom:12px;left:calc((100% - 263px)/ 2);width:245px;height:2px;background-color:#645766}@media (min-width:481px) and (max-width:767px){.people--text::after{width:364px;left:calc((100% - 364px)/ 2)}}@media (min-width:768px) and (max-width:992px){.people--text::after{width:555px;left:calc((100% - 555px)/ 2)}}@media (min-width:993px){.people--text::after{width:780px;left:85px}}.revolutionary-wrapper{display:flex;flex-direction:column}.revolutionary-title{font-family:Montserrat,Arial,sans-serif;font-weight:700;font-size:26px;line-height:28px;text-align:center;text-transform:uppercase;color:#635c73;margin-top:40.5px;margin-bottom:0}@media (min-width:481px){.revolutionary-title{margin-top:73.5px;margin-bottom:0;font-size:42px;line-height:42px}}@media (min-width:993px){.revolutionary-title{margin-top:66px;font-size:54px;line-height:54px}}.revolutionary-text{font-family:Lato;font-style:normal;font-weight:400;font-size:14px;line-height:20px;text-align:center;color:#323232;margin:27px 26px 36px 18px}@media (min-width:481px){.revolutionary-text{margin:33px 40px 24px 39px;font-size:21px;line-height:32px}}@media (min-width:993px){.revolutionary-text{margin:35px 189px 13px 150px}}.revolutionary__btn-list{display:flex;flex-wrap:wrap;line-height:24px;max-height:100%;justify-content:center;text-align:center}.revolutionary__list-item{background-color:#f1f1f1;height:26px;border-radius:4px;border:#e3e3e3 1px solid;margin-right:8px;font-size:12px;color:#333;line-height:18px;list-style-type:none;margin-bottom:20px}.revolutionary__list-item:nth-child(3){margin-bottom:0}@media (min-width:481px){.revolutionary__list-item{margin-bottom:0}}.revolutionary__btn-icon{padding-left:8px}.revolutionary__btn-link{display:flex;align-items:center;font-weight:700}.revolutionary__btn-text{font-family:Montserrat,Arial,sans-serif;position:relative;color:#333;display:inline-block;padding:0 6px;font-size:12px;font-weight:500;line-height:18px;font-weight:700}.revolutionary__link-counter{font-family:Montserrat,Arial,sans-serif;display:inline-block;min-width:20px;padding:0 6px;font-size:12px;font-weight:500;line-height:26px;text-align:center;color:#333;background-color:#fff;font-weight:700;border-left:#e3e3e3 1px solid}

diff --git a/src/css/main.css b/src/css/main.css
@@ -48,7 +48,7 @@ body {
     font-size: 48px;
     line-height: 50px;
     font-weight: 700;
-    margin-top: 83px;
+    margin-top: 0;
     margin-bottom: 112px;
   }
 }
@@ -245,7 +245,7 @@ body {
 .header {
   position: relative;
   background-color: #27262a;
-  margin-bottom: 79px;
+  margin-bottom: 79.5px;
 }
 @media (min-width: 481px) and (max-width: 992px) {
   .header {
@@ -682,6 +682,7 @@ body {
   color: #8d81ac;
   text-align: center;
   padding: 0 11px 14px;
+  text-transform: capitalize;
 }
 @media (min-width: 481px) and (max-width: 992px) {
   .fork-app__text {
@@ -690,6 +691,10 @@ body {
     font-size: 24px;
     line-height: 24px;
     padding-bottom: 19px;
+    text-transform: lowercase;
+  }
+  .fork-app__text::first-letter {
+    text-transform: uppercase;
   }
 }
 @media (min-width: 993px) {
@@ -697,6 +702,10 @@ body {
     font-size: 30px;
     line-height: 30px;
     padding-bottom: 19px;
+    text-transform: lowercase;
+  }
+  .fork-app__text::first-letter {
+    text-transform: uppercase;
   }
 }
 .fork-app__text2 {
@@ -826,7 +835,7 @@ body {
   margin-top: 38px;
 }
 .hereis__list-item:nth-child(4) {
-  margin: 40px 22px 49px 30px;
+  margin: 40px 22px 73px 30px;
 }
 @media (min-width: 481px) {
   .hereis__list-item {
@@ -845,8 +854,11 @@ body {
     padding-left: 11px;
   }
 }
-@media (min-width: 481px) and (min-width: 481px) {
+@media (min-width: 481px) and (min-width: 993px) {
   .hereis__list-item {
+    position: static;
+    height: 110px;
+    padding: 0;
     margin-top: 100px;
   }
   .hereis__list-item:nth-child(2) {
@@ -857,13 +869,6 @@ body {
   }
   .hereis__list-item:nth-child(4) {
     margin-top: 36.57px;
-  }
-}
-@media (min-width: 993px) {
-  .hereis__list-item {
-    position: static;
-    height: 110px;
-    padding: 0;
   }
 }
 
@@ -878,6 +883,9 @@ body {
   }
 }
 
+.hereis__text-wrapper {
+  margin-top: 27px;
+}
 @media (min-width: 481px) {
   .hereis__text-wrapper {
     display: flex;
@@ -885,21 +893,31 @@ body {
     padding-left: 134px;
     align-self: center;
     margin-right: 22px;
+    margin-bottom: 40px;
   }
 }
 
+#hereis-2 {
+  margin-top: 21px;
+}
 @media (min-width: 481px) {
   #hereis-2 {
     margin-left: 1px;
   }
 }
 
+#hereis-3 {
+  margin-top: 20px;
+}
 @media (min-width: 481px) {
   #hereis-3 {
     margin-left: -16px;
   }
 }
 
+#hereis-4 {
+  margin-top: 23px;
+}
 @media (min-width: 481px) {
   #hereis-4 {
     margin-left: -11px;
@@ -913,7 +931,7 @@ body {
   line-height: 16px;
   justify-content: center;
   color: #000000;
-  margin: 27px 26px 14px 24px;
+  margin-bottom: 14px;
 }
 @media (min-width: 481px) {
   .hereis__item-title {
@@ -949,8 +967,7 @@ body {
 .hereis__img-320 {
   display: flex;
   align-self: flex-end;
-  padding: 17.5px 0 17.5px 19px;
-  margin-top: 9px;
+  margin-top: 7px;
 }
 @media (min-width: 481px) {
   .hereis__img-320 {
@@ -965,11 +982,11 @@ body {
   .hereis__img-768 {
     display: flex;
     align-self: flex-end;
-    padding: 24px 0 24px 24px;
   }
 }
 @media (min-width: 993px) {
   .hereis__img-768 {
+    align-self: center;
     margin: 0;
     grid-area: img;
     margin-top: -30px;
@@ -1009,6 +1026,7 @@ body {
   font-weight: bold;
   font-size: 36px;
   line-height: 48px;
+  padding-top: 0;
   color: #ffffff;
 }
 @media (min-width: 481px) and (max-width: 992px) {
@@ -1107,6 +1125,7 @@ body {
 @media (min-width: 993px) {
   .people--text {
     width: 887px;
+    margin: 0 auto;
     margin-bottom: 132px;
   }
 }
@@ -1151,11 +1170,12 @@ body {
   text-align: center;
   text-transform: uppercase;
   color: #635C73;
-  margin-top: 39.5px;
+  margin-top: 40.5px;
+  margin-bottom: 0;
 }
 @media (min-width: 481px) {
   .revolutionary-title {
-    margin-top: 93.5px;
+    margin-top: 73.5px;
     margin-bottom: 0;
     font-size: 42px;
     line-height: 42px;

diff --git a/src/scss/components/_hereis.scss b/src/scss/components/_hereis.scss
@@ -59,7 +59,7 @@
         margin-top: 38px;
     }
     &:nth-child(4) {
-        margin: 40px 22px 49px 30px;
+        margin: 40px 22px 73px 30px;
     }
     @media (min-width: $tablet-bp) {
 		display: flex;
@@ -75,7 +75,10 @@
         &:nth-child(4) {
             padding-left: 11px;
         }
-        @media (min-width: $tablet-bp) {
+        @media (min-width: $desktop-bp) {
+            position: static;
+            height: 110px;
+            padding: 0;
             margin-top: 100px;
             &:nth-child(2) {
                 margin-top: 35.57px;
@@ -88,11 +91,7 @@
             }
         }
 	}
-    @media (min-width: $desktop-bp) {
-    position: static;
-    height: 110px;
-    padding: 0;
-    }
+
 }
 .hereis__item-icon {
     display: block;
@@ -103,25 +102,30 @@
     }
 }
 .hereis__text-wrapper {
+    margin-top: 27px;
     @media (min-width: $tablet-bp) {
         display: flex;
         flex-direction: column;
         padding-left: 134px;
         align-self: center;
         margin-right: 22px;
+        margin-bottom: 40px;
     }
 }  
 #hereis-2 {
+    margin-top: 21px;
     @media (min-width: $tablet-bp) {
         margin-left: 1px;
     }
 }
 #hereis-3 {
+    margin-top: 20px;
     @media (min-width: $tablet-bp) {
         margin-left: -16px;
     }
 }
 #hereis-4 {
+    margin-top: 23px;
     @media (min-width: $tablet-bp) {
         margin-left: -11px;
     }
@@ -150,8 +154,7 @@
 .hereis__img-320 {
     display: flex;
     align-self: flex-end;
-    padding: 17.5px 0 17.5px 19px;
-    margin-top: 9px;
+    margin-top: 7px;
     @media (min-width: $tablet-bp) {
         display: none;
     }
@@ -161,9 +164,9 @@
     @media (min-width: $tablet-bp) {
         display: flex;
         align-self: flex-end;
-        padding: 24px 0 24px 24px;
     }
     @media (min-width: $desktop-bp) {
+        align-self:center;
         margin: 0;
         grid-area: img;
         margin-top: -30px;

diff --git a/src/scss/components/_header.scss b/src/scss/components/_header.scss
@@ -4,7 +4,7 @@
 .header {
   position: relative;
   background-color: $header-grey;
-  margin-bottom: 79px;
+  margin-bottom: 79.5px;
   @media (min-width: 481px) and (max-width: 992px) {
     margin-bottom: 93px;
   }
@@ -389,16 +389,26 @@
     color: $purple;
     text-align: center;
     padding: 0 11px 14px;
+    text-transform: capitalize;
+    
     @media (min-width: 481px) and (max-width: 992px) {
       @include lato-reg;
       font-size: 24px;
       line-height: 24px;
       padding-bottom: 19px;
+      text-transform: lowercase;
+      &::first-letter{
+        text-transform: uppercase;
+      }
     }
     @media (min-width: 993px) {
       font-size: 30px;
       line-height: 30px;
       padding-bottom: 19px;
+      text-transform: lowercase;
+      &::first-letter{
+        text-transform: uppercase;
+      }
     }
   }
   &__text2 {

diff --git a/src/scss/abstracts/_mixins.scss b/src/scss/abstracts/_mixins.scss
@@ -32,7 +32,8 @@
   text-align: center;
   text-transform: uppercase;
   color: #635C73;
-  margin-top: 39.5px;
+  margin-top: 40.5px;
+  margin-bottom: 0;
 }
 @mixin revolutionary-text {
   font-family: 'Lato';
@@ -106,7 +107,7 @@
     line-height: 16px;
     justify-content: center;
     color: $black;
-    margin: 27px 26px 14px 24px;
+    margin-bottom: 14px;
 }
 @mixin hereis__item-text {
     font-family: $lato;

diff --git a/src/scss/components/_people.scss b/src/scss/components/_people.scss
@@ -28,6 +28,7 @@
     @include montserrat-bold;
     font-size: 36px;
     line-height: 48px;
+    padding-top: 0;
     color: $white;
     @media (min-width: 481px) and (max-width: 992px) {
       font-size: 42px;
@@ -108,6 +109,7 @@
     }
     @media (min-width: 993px) {
       width: 887px;
+      margin: 0 auto;
       margin-bottom: 132px;
     }
 

diff --git a/src/scss/components/_revolutionary.scss b/src/scss/components/_revolutionary.scss
@@ -8,7 +8,7 @@
 .revolutionary-title {
     @include revolutionary-title;
     @media (min-width: $tablet-bp) {
-        margin-top: 93.5px;
+        margin-top: 73.5px;
         margin-bottom: 0;
         font-size: 42px;
         line-height: 42px;

diff --git a/src/scss/components/_fork.scss b/src/scss/components/_fork.scss
@@ -20,7 +20,7 @@
             font-size: 48px;
             line-height: 50px;
             font-weight: 700;
-            margin-top: 83px;
+            margin-top: 0;
             margin-bottom: 112px;
     }
 }
